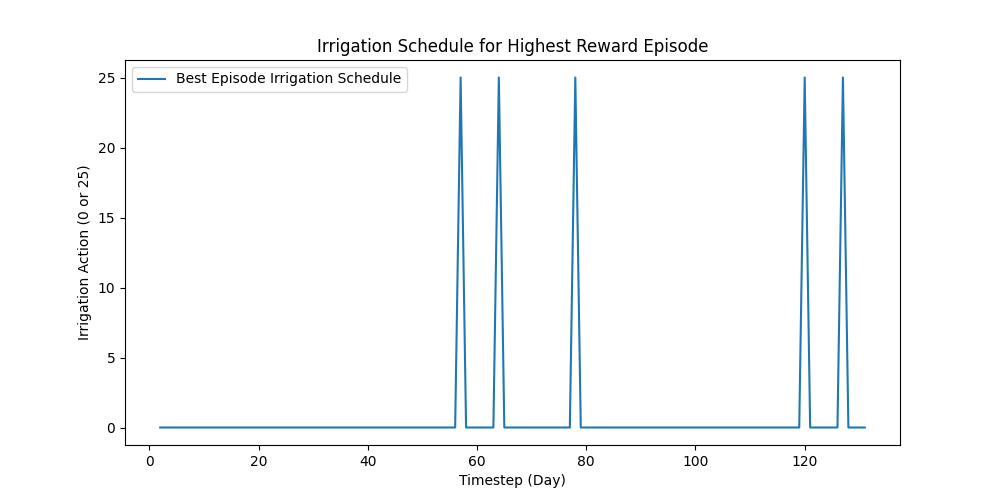
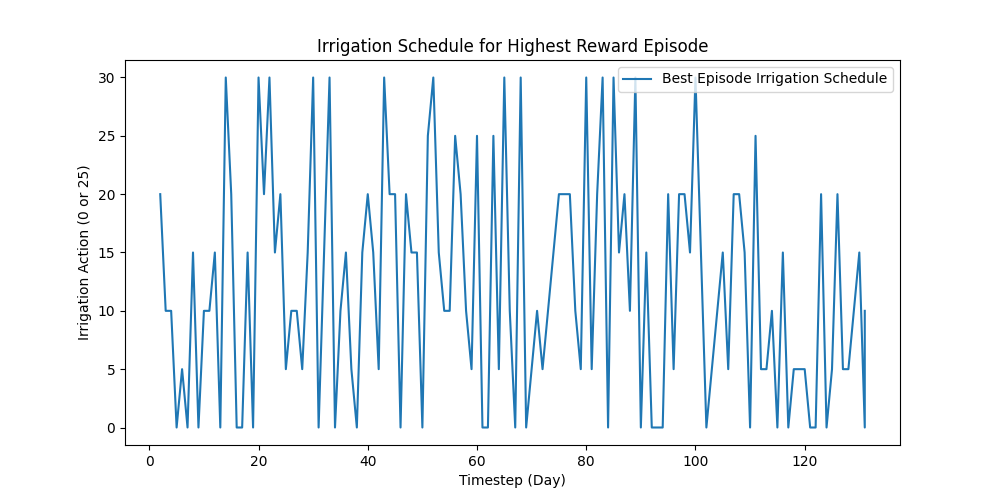
biomass and scaled yield reward

diff --git a/aquacroprice/envs/maize.py b/aquacroprice/envs/maize.py
@@ -49,7 +49,7 @@ class Maize(gym.Env):
         # Define observation space: Includes weather-related observations
         self.observation_space = spaces.Box(low=-np.inf, high=np.inf, shape=(9,), dtype=np.float32)
         
-        self.action_depths = [0, 25]
+        self.action_depths = [0,5,10,15,20,25,30]
         self.action_space = spaces.Discrete(len(self.action_depths))  # Discrete action space with 6 actions
 
     def reset(self, seed=None, options=None):
@@ -149,16 +149,17 @@ class Maize(gym.Env):
 
     def step(self, action):
         # Increment the day counter
-        self.day_counter += 1
+        # self.day_counter += 1
 
         # Check if 7 days have passed since the last action
-        if self.day_counter >= self.days_to_irr:
-            self.day_counter = 0
-            depth = self.action_depths[int(action)]
-        else:
-            depth = 0
+        # if self.day_counter >= self.days_to_irr:
+        #     self.day_counter = 0
+        #     depth = self.action_depths[int(action)]
+        # else:
+        #     depth = 0
 
         # Apply the depth to the model
+        depth = self.action_depths[int(action)]
         self.model._param_struct.IrrMngt.depth = depth
         self.model.run_model(initialize_model=False)
         
